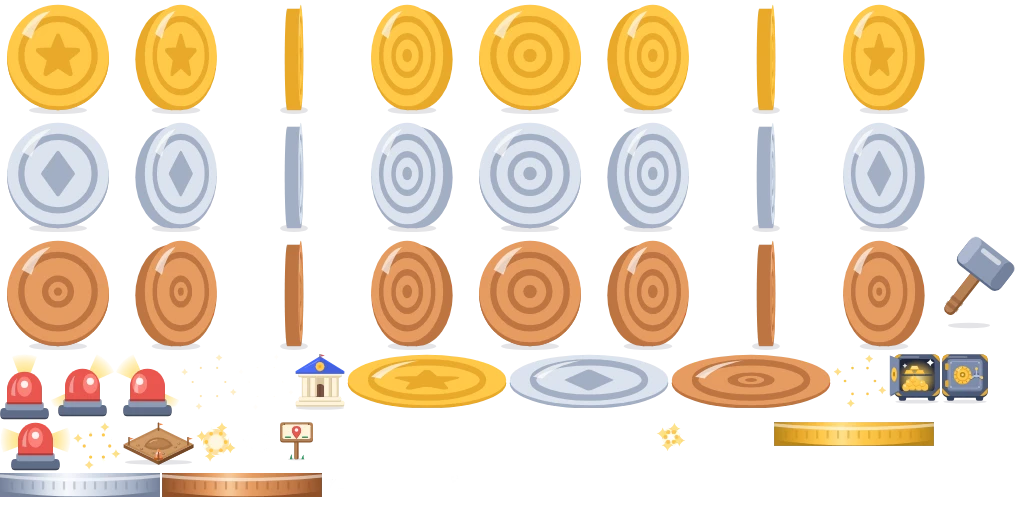
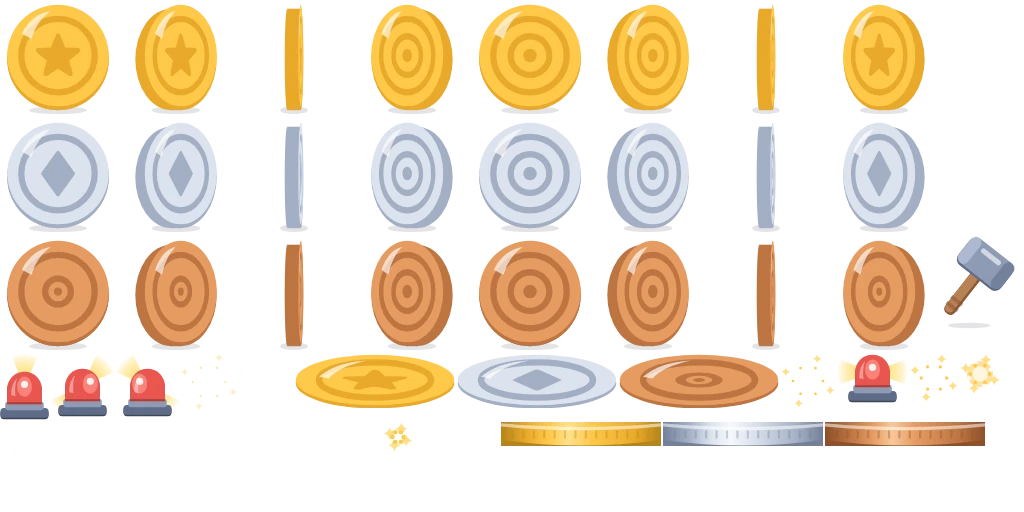
fx: stop baking the money heroes into money.webp (audit 31) [skip ci]
vault, bank, plot_sign and dirt_plot were baked and listed in the
manifest, but the stage draws every hero as inline SVG from the same
functions (vault(), bank(), plotSign(), dirtPlot()). Every name that
reaches paintFrame / frameBox / animSize is a literal or a coin_* template
(coin_burst, sparkle4, dust_puff, hammer, siren, coin_spin_*, coin_top_*),
so no code path paints them. The audit listed three; bank is the same case
and goes too.

Rebaked with `node scripts/fx/bake-money.mjs`: 14 animations, 55 frames
(was 18 / 60), money.webp 79,962 -> 74,046 bytes, money.json 8.2 -> 7.1 KB.
The coin tiles are unchanged. Contact sheet regenerated; MONEY-EVENTS.md
§10.2 sizes updated. content + money tests 148/148.

Claude-Session: https://claude.ai/code/session_01MFt13innfkDrSn1TMCBrcB

Changed region(s): [[0.0, 0.6875, 0.9688, 0.9688]]

diff --git a/src/content/fx/money-manifest.ts b/src/content/fx/money-manifest.ts
@@ -12,10 +12,6 @@ export const MONEY_ANIM_NAMES = [
   'coin_top_silver',
   'coin_top_bronze',
   'coin_burst',
-  'vault',
-  'bank',
-  'plot_sign',
-  'dirt_plot',
   'hammer',
   'siren',
   'sparkle4',
@@ -27,7 +23,7 @@ export type MoneyAnimName = (typeof MONEY_ANIM_NAMES)[number];
 /** Paths relative to the app base (public/fx/*). Loaded only by the money stage. */
 export const MONEY_FILES = { json: 'fx/money.json', atlas: 'fx/money.webp' } as const;
 
-export const MONEY_FRAME_TOTAL = 60;
+export const MONEY_FRAME_TOTAL = 55;
 
 /** Nominal size (CSS px at scale 1), frame count, fps, bake shrink, whole-cell frames. */
 export const MONEY_ANIMS: Record<MoneyAnimName, { n: number; fps: number; w: number; h: number; k: number; fixedBox: boolean }> = {
@@ -41,10 +37,6 @@ export const MONEY_ANIMS: Record<MoneyAnimName, { n: number; fps: number; w: num
   coin_top_silver: { n: 1, fps: 1, w: 40, h: 14, k: 2, fixedBox: false },
   coin_top_bronze: { n: 1, fps: 1, w: 40, h: 14, k: 2, fixedBox: false },
   coin_burst: { n: 6, fps: 20, w: 64, h: 64, k: 0.5, fixedBox: false },
-  vault: { n: 2, fps: 1, w: 96, h: 96, k: 0.3, fixedBox: false },
-  bank: { n: 1, fps: 1, w: 96, h: 96, k: 0.3, fixedBox: false },
-  plot_sign: { n: 1, fps: 1, w: 64, h: 72, k: 0.3, fixedBox: false },
-  dirt_plot: { n: 1, fps: 1, w: 128, h: 76, k: 0.3, fixedBox: false },
   hammer: { n: 1, fps: 1, w: 64, h: 64, k: 0.75, fixedBox: false },
   siren: { n: 4, fps: 12, w: 64, h: 64, k: 0.6, fixedBox: false },
   sparkle4: { n: 6, fps: 20, w: 48, h: 48, k: 0.45, fixedBox: false },

diff --git a/src/content/fx/sprites-money.ts b/src/content/fx/sprites-money.ts
@@ -323,11 +323,7 @@ export const MONEY_SPRITES: SpriteDef[] = [
   ...METALS.map((m): SpriteDef => ({ name: `coin_slice_${m}`, cls: 'color', w: SLICE.w, h: SLICE.h, n: 1, fps: 1, loop: false, k: 2, tile: true, edgeOk: true, svg: () => coinSlice(m) })),
   ...METALS.map((m): SpriteDef => ({ name: `coin_top_${m}`, cls: 'color', w: COIN_TOP.w, h: COIN_TOP.h, n: 1, fps: 1, loop: false, k: 2, edgeOk: true, svg: () => coinTop(m) })),
   { name: 'coin_burst', cls: 'color', w: 64, h: 64, n: 6, fps: 20, loop: false, k: 0.5, svg: coinBurst },
-  // Heroes: drawn as inline SVG on the stage (sharp at 60 % of the screen); small baked copies for
-  // the contact sheet and any bitmap use.
-  { name: 'vault', cls: 'color', w: 96, h: 96, n: 2, fps: 1, loop: false, k: 0.3, svg: (i) => vault(i === 1) },
-  { name: 'bank', cls: 'color', w: 96, h: 96, n: 1, fps: 1, loop: false, k: 0.3, svg: () => bank() },
-  { name: 'plot_sign', cls: 'color', w: 64, h: 72, n: 1, fps: 1, loop: false, k: 0.3, svg: () => plotSign() },
-  { name: 'dirt_plot', cls: 'color', w: 128, h: 76, n: 1, fps: 1, loop: false, k: 0.3, svg: () => dirtPlot() },
+  // The heroes (vault, bank, plot sign, dirt plot) are not baked: the stage draws them as inline SVG
+  // (sharp at 60 % of the screen) straight from the functions above.
   ...borrowed,
 ];

diff --git a/docs/MONEY-EVENTS.md b/docs/MONEY-EVENTS.md
@@ -180,7 +180,7 @@
 
 - 머니 아틀라스는 **캔버스 VFX 아틀라스와 별개**다. `atlas-color`(512²)·`atlas-mask`(1024²)는 바뀌지 않았고, 머니
   무대만 `money.webp`를 읽는다(디코드 1024×512 = 2 MB).
-- `money.webp` 1024×512 78 KB, `money.json` 8 KB, 타일 3장 3.7 KB. FX 비트맵 전체(기존 262 KB 포함) 약 352 KB
+- `money.webp` 1024×512 72 KB, `money.json` 7 KB, 타일 3장 3.7 KB. FX 비트맵 전체(기존 262 KB 포함) 약 345 KB
   (예산 ≤ 500 KB, `src/content/fx/__tests__/money-atlas.test.ts`가 검사).
 - 코인 셀은 48 공칭 px × DPR 2 × 1.2 = 116 px. 비행 코인 표시 크기(1600×1000에서 약 94 CSS px)에서는 약간 확대된다
   (기획 §2 "픽셀이 보여도 허용"). 히어로(금고·은행·표지판·공사 현장)는 같은 생성 함수의 SVG를 **인라인으로** 그려
